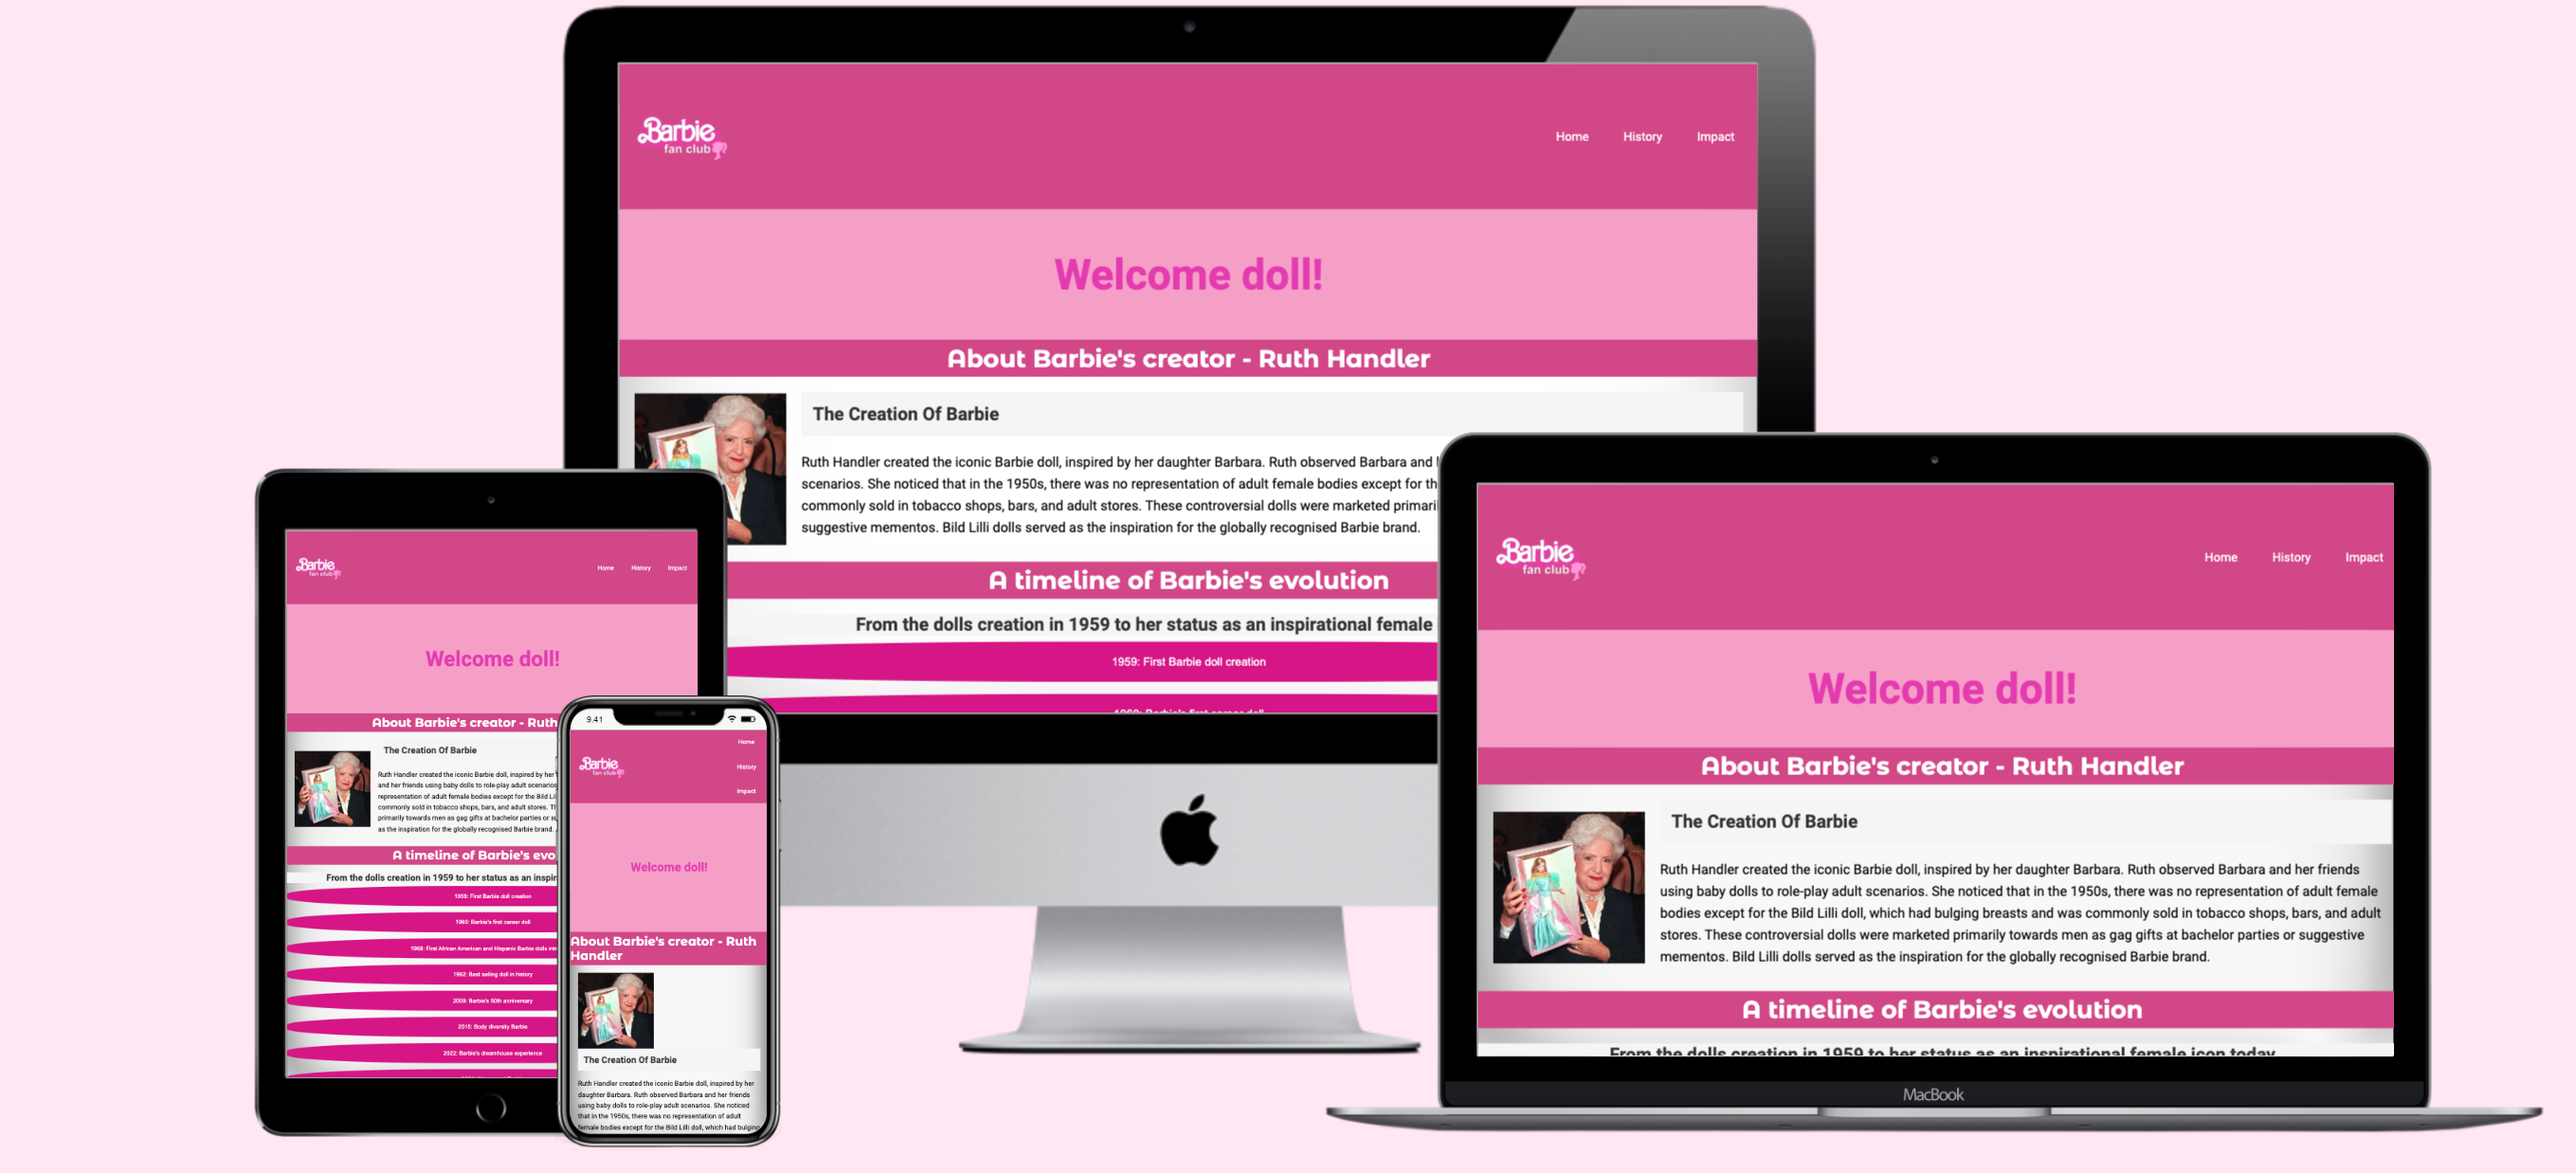
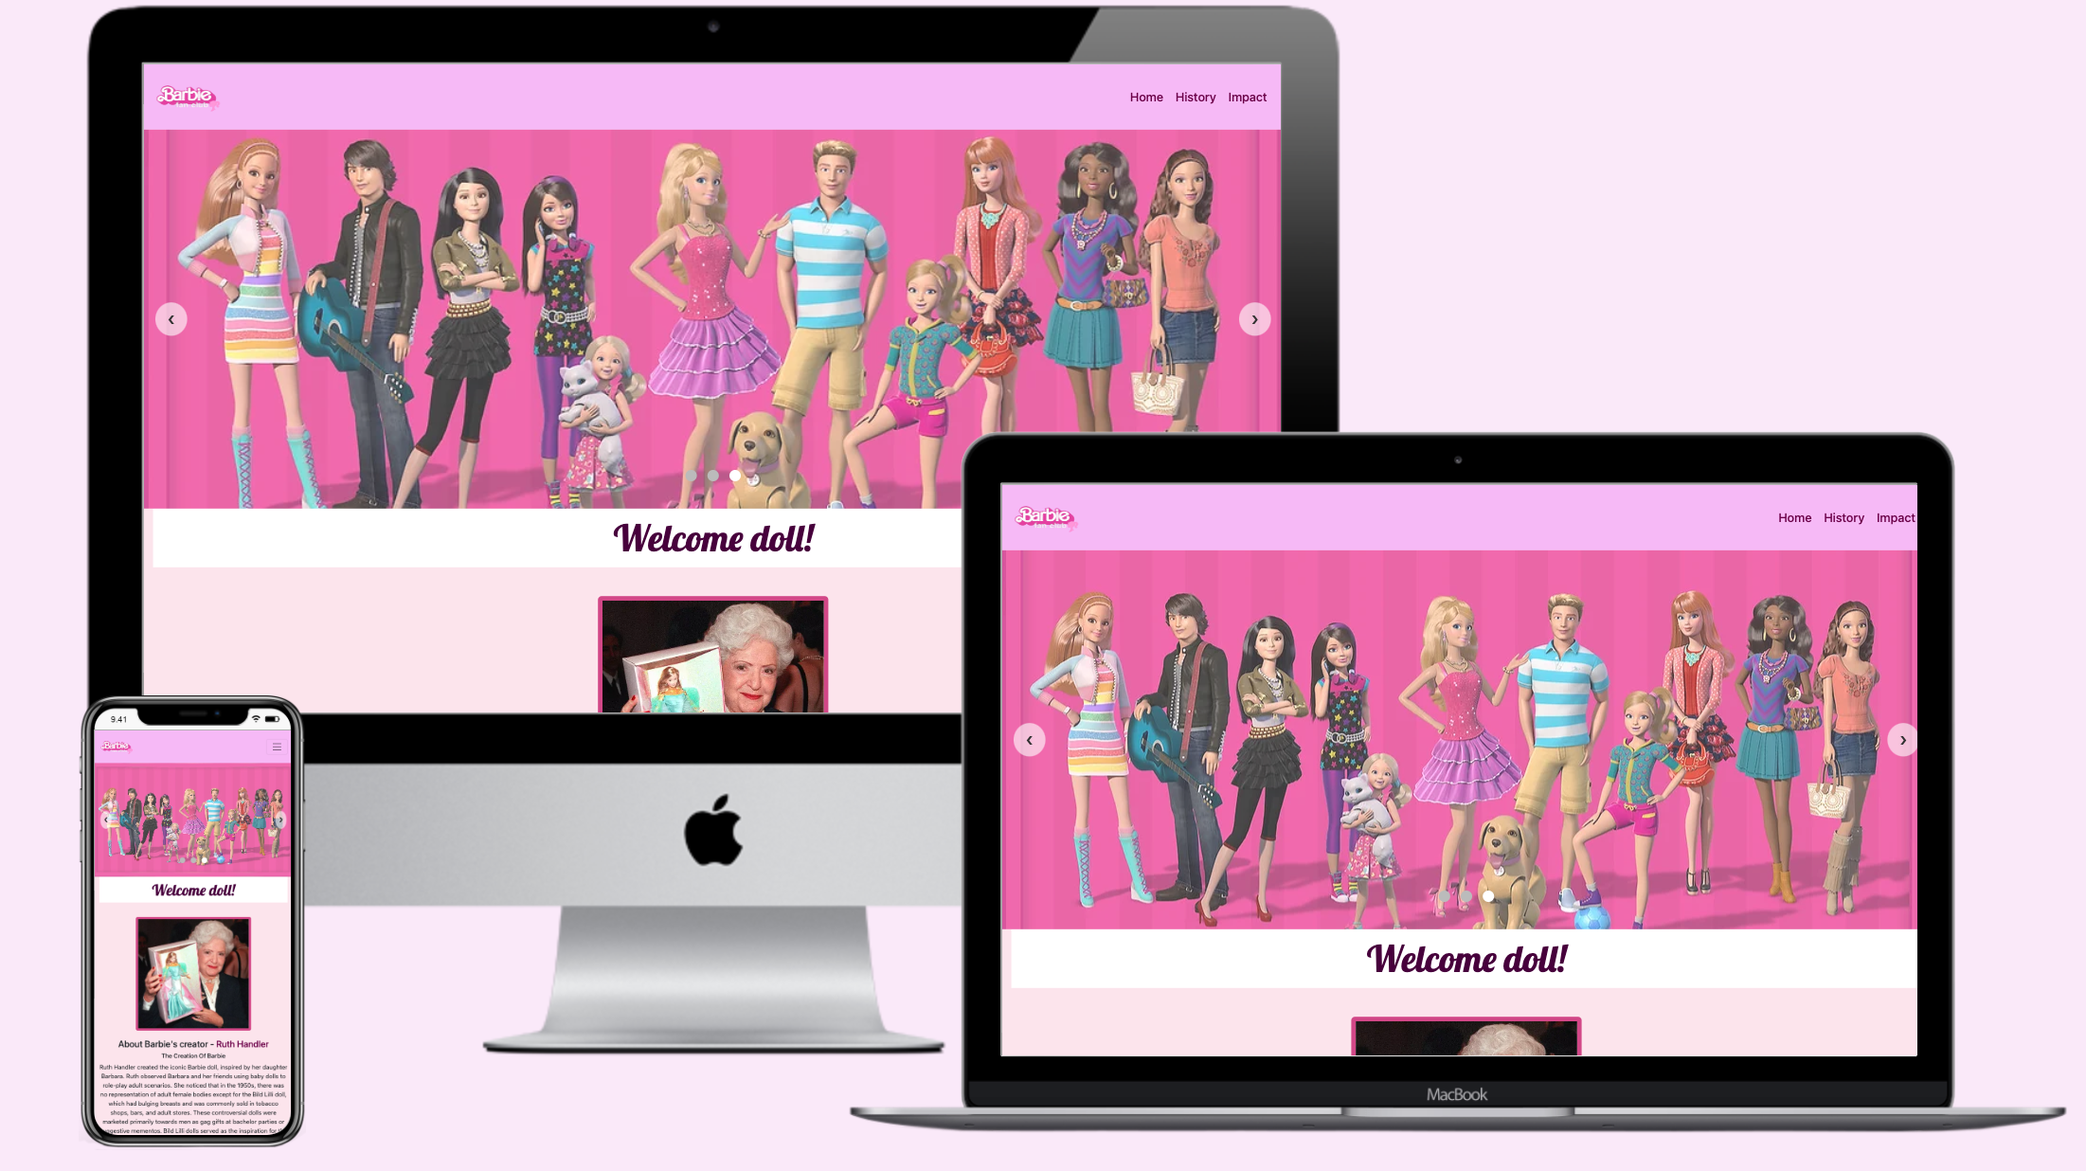
Update README.md, final improvements

diff --git a/assets/css/style.css b/assets/css/style.css
@@ -143,9 +143,7 @@ body {
     max-width: 100%;
     border-radius: 6px;
     border: 3px solid #97265C;
-    display: block;           
-    margin-left: auto;       
-    margin-right: auto; 
+    display: block;                  
     margin-top: 30px;
     margin-bottom: 20px;
 }
@@ -153,20 +151,16 @@ body {
 /* Timeline */ 
 
 .simage img {
-  display: flex;
-  justify-content: center;
   border-radius: 5px; 
   border: 6px solid #d14789; 
-  max-width: 100%; 
-  max-height: 300px;
-  object-fit: contain;
+  max-width: 50%; 
+  margin-left: 20rem;
 }
 
 .timeline {
-  padding: 5px 0;
-  background-color: #fce4ec; 
   text-align: center;
 }
+
 .timeline img {
   width: 100%;
   border-radius: 10px;
@@ -195,6 +189,7 @@ body {
   max-width: 1000px;
   margin: 0 auto;
   padding: 0 20px;
+  background-color: #fce4ec; 
 }
 
 .faq-container {
@@ -340,6 +335,7 @@ h2 {
   box-shadow: 0 4px 8px rgba(0, 0, 0, 0.2);
 }
 
+
 /* Footer */
 
 .footer {
@@ -400,6 +396,10 @@ h2 {
 .about h2 {
   font-size: 2.5rem;
 }
+.simage img {
+  max-width: 70%;
+  margin-left: 5rem;
+}
 
 /* Video */
 .video-container {
@@ -423,15 +423,42 @@ h2 {
     font-size: 2.5rem;
   }
 
-  .about img {
-    max-width: 100%;
-    border-radius: 6px;
-    border: 3px solid #97265C;
-    margin-left: 10rem;
+  .about {
+    text-align: left;
+  }
+
+  .simage img {
+    max-width: 70%;
+    margin-left: 5rem;
   }
 
   /* Impact */
   .impact-text, .impact-image {
     width: 80%;
   }
+}
+
+/* Styles for larger screen sizes (1260px and above) */
+@media screen and (min-width: 1260px) {
+/* Slideshow */
+.slide img {
+  width: 100%;
+  height: auto;
+}
+/* About creator */
+.simage img {
+  width: 850px;
+}
+.about h2 {
+  font-size: 5rem;
+}
+
+.about {
+  font-size: x-large;
+}
+
+/* Timeline */
+.img {
+  width: 100%;
+}
 }

diff --git a/main.js b/main.js
@@ -1,4 +1,6 @@
-// Slider 
+/* jshint esversion: 6 */
+
+/// Slider 
 let currentSlideIndex = 0;
 const slides = document.querySelectorAll('.slide');
 const dots = document.querySelectorAll('.dot');

diff --git a/README.md b/README.md
@@ -1,4 +1,4 @@
-## Barbie Website
+# Barbie Website
 
 The Barbie website serves as a tribute or fan page of Barbie, or for individuals interested in a brand that focus on empowering women to be their best, much like the character of the doll itself.
 
@@ -8,9 +8,9 @@ There is an interactive timeline and slideshow for a more detailed and visual ex
 
 ![Website mockup image](assets/images/website-mockup.png)
 
-## Features 
+# Features 
 
-#### 1. Navigation bar 
+## Navigation bar 
 
 - At the top of the one-page website, the navigation links are located to the right with the logo being to the left.
 
@@ -18,7 +18,7 @@ There is an interactive timeline and slideshow for a more detailed and visual ex
 
 - The navigation link texts are highlighted on all devices when the cursor hovers over the text.
 
-#### 2. The Header 
+## The Header 
 
 - At the left-side of the header section is the Barbie fan club logo, which users can click to navigate back to the Welcome page.
 
@@ -26,41 +26,37 @@ There is an interactive timeline and slideshow for a more detailed and visual ex
 
 ![Website header](assets/images/website-header.png)
 
-#### 3. The Home page 
+## The Home page 
 
-- This section features the Welcome banner with the text "Welcome doll!" that personally addresses the user with a term of endearment, creating a friendly and inviting atmosphere. This increases the likelihood of user engagement with the rest of the site.
+- This section features a slideshow of three photos that automatically transition, showcasing the Barbie Dreamhouse, Margot Robbie as Barbie in the movie, and the main cast of Barbie: Life in the Dreamhouse. The slideshow is designed to be visually appealing, capturing the user's attention as the first element they see.
 
-![Welcome banner](assets/images/welcome-banner.png)
+![Homepage slideshow](assets/images/slideshow.png)
 
-- Below this banner, the section features a photo of Barbie's original creator and explains the inspiration behind the doll. It sets the tone for the website by sharing the influential backstory of how Ruth Handler transformed a concept meant for adult amusement into a pioneering children's product, which has become an iconic and influential brand and role model. This backstory highlights Barbie not merely as a toy, but as a symbol of empowerment and possibility. It encourages users to delve deeper into the website to explore how these values manifest across Barbie's diverse forms and messages.
+- Below this slideshow, is the Welcome banner with the text "Welcome doll!" that personally addresses the user with a term of endearment, creating a friendly and inviting atmosphere. This increases the likelihood of user engagement with the rest of the site. Then a photo of Barbie's original creator and text explains the inspiration behind the doll. It sets the tone for the website by sharing the influential backstory of how Ruth Handler transformed a concept meant for adult amusement into a pioneering children's product, which has become an iconic and influential brand and role model. This backstory highlights Barbie not merely as a toy, but as a symbol of empowerment and possibility. It encourages users to delve deeper into the website to explore how these values manifest across Barbie's diverse forms and messages.
 
-![Barbie creator section](assets/images/barbie-creater-section.png)
+![Barbie creator section](assets/images/homepage.png)
+
+## History 
 
 - Following the Home page section is the History section, which delves further into key milestones of the Barbie brand journey.
 
-- This includes an animated timeline using buttons and CSS animations. 
+![Timeline header photo](assets/images/timeline-header.png)
 
-- The timeline features events displayed as a vertical list, with each button indicating a key event, the date, and a content area showing event details once clicked.
-
-- CSS code is used to provide the interactive timeline with smooth animations and accessibility features. It utilises Flexbox for layout and transitions for enhanced user interaction.
-
-- The purpose of the timeline is to allow users to digest a lot of content in manageable sections (key events), avoiding overwhelming them with all information at once. By selecting radio buttons, users reveal small sections of text, encouraging continuous reading or checking off of other buttons. Users can also pause and resume at their convenience, providing a more streamlined website experience. 
+- This section includes an animated timeline created with JavaScript. Events are displayed in a vertical list, with each button showing a key event, its date, and a content area that reveals details when clicked. The timeline helps users absorb information in manageable sections, preventing overwhelm. By selecting  buttons, users reveal small portions of text, encouraging continuous reading. They can also pause and resume at their convenience, enhancing the overall user experience.
 
 ![Timeline section](assets/images/timeline-section.png)
 
-#### 4. The Impact page 
+- Below this, is a <a href="https://www.youtube.com/watch?v=okzq6yDEzzM">Youtube video</a> which explores the evolution of Barbie, detailing the timeline events in greater depth. This provides a valuable resource for visual learners while encouraging users to stay on the page longer to watch the content.
 
-- The final section explains Barbie’s role in promoting empowerment, inclusivity, and charity, emphasising that Barbie is a symbol of positive values and social impact.
+![Timeline video](assets/images/timeline-video.png)
 
-- Text sections are highlighted in different alternating colors to draw attention to specific names and projects shown in the slideshow above. Key phrases such as "Barbie," "Close the Dream Gap," and "Margot Robbie" are emphasized to connect with the relevant images, making the text engaging and easy to scan. The use of colours helps users quickly identify important information and navigate the content more effectively.
+## Impact page 
 
-- The centered text format makes it manageable to read a big chunk of text, encouraging users to explore the related images (referred to as pictures 1, 2, 3, and 4) for visual evidence.
-
-- The body tone of the text is fun and friendly, matching Barbie’s spirit, ensuring users can easily follow along with the text and slideshow.
+- The final page highlights Barbie’s role in empowerment, inclusivity, and charity, reinforcing her as a symbol of positive values and social impact. Alternating text colours draw attention to key names and projects, making the content visually engaging and easy to scan. Relevant images accompany each section, helping to illustrate the impact of these initiatives. The tone remains fun and friendly, reflecting Barbie’s spirit and ensuring an enjoyable reading experience.
 
 ![Impact section](assets/images/impact-section.png)
 
-#### 5. The Footer 
+## The Footer 
 
 - The footer section includes text followed by links to Barbie's official Twitter, Instagram, YouTube, and a Barbie Wiki page.
 
@@ -88,7 +84,7 @@ There is an interactive timeline and slideshow for a more detailed and visual ex
 
 - No errors found when I ran the index.html code through the <a href="https://validator.w3.org/">The W3C Markup Validation Service</a>
 
-![HTML val](assets/images/html-validator.png)
+![HTML val](assets/images/html-validator%20%20%20%20%20%20%20%20%20%20%20%20%20%20%20%20%20%20%20%20%20%20%20%20%20%20%20%20%20%20%20%20%20%20%20%20%20%20%20%20%20%20%20%20.png)
 
 #### CSS 
 
@@ -96,6 +92,11 @@ There is an interactive timeline and slideshow for a more detailed and visual ex
 
 ![HTML val](assets/images/css-validator.png)
 
+#### Javascript
+
+- <a href="https://jshint.com/">JSHint</a> was used to check the main.js code, which showed no warnings.
+
+![HTML val](assets/images/jshint.png)
 
 ## Deployment 
 
@@ -147,6 +148,8 @@ This action creates a local clone of the project.
 #### Media 
 
 - The slideshow was adapted from <a href="https://codepen.io/NicholasByDesign/pen/qBOmQX">Codepen</a> with credits to NicholasByDesign
+
+- The video from youtube was imported from <a href="https://www.youtube.com/watch?v=okzq6yDEzzM">TheThingsCelebrity channel</a> 
 
 #### Image Credits
 
